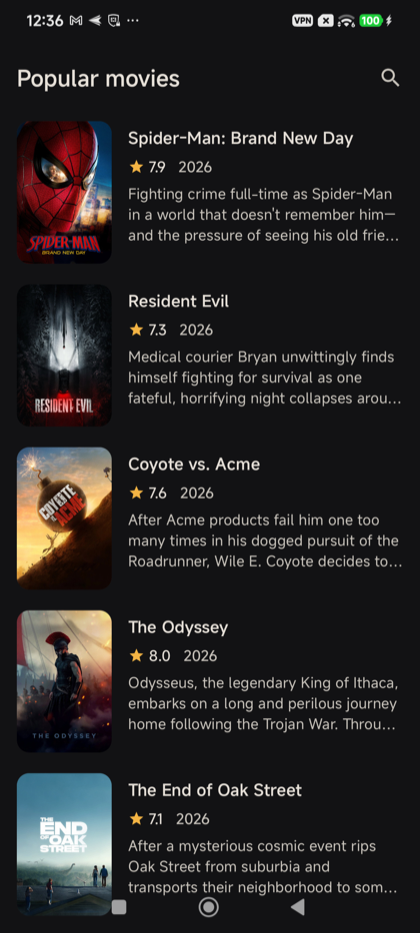
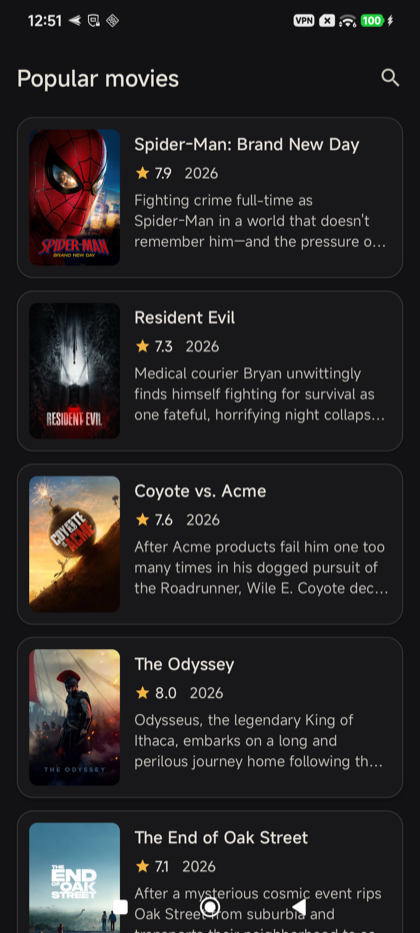
Show list items as elevated cards
- MediaListItem is now a Card with a soft shadow, a hairline
  outlineVariant border (visible on dark surfaces where shadows aren't)
  and a pressed elevation
- poster corner radius reduced so it stays concentric inside the card
- README screenshot and description updated

diff --git a/app/src/main/java/com/twocoders/movieapp/presentation/common/components/MediaListItem.kt b/app/src/main/java/com/twocoders/movieapp/presentation/common/components/MediaListItem.kt
@@ -1,12 +1,14 @@
 package com.twocoders.movieapp.presentation.common.components
 
-import androidx.compose.foundation.clickable
+import androidx.compose.foundation.BorderStroke
 import androidx.compose.foundation.layout.Arrangement
 import androidx.compose.foundation.layout.Column
 import androidx.compose.foundation.layout.Row
 import androidx.compose.foundation.layout.fillMaxWidth
 import androidx.compose.foundation.layout.padding
 import androidx.compose.foundation.layout.size
+import androidx.compose.material3.Card
+import androidx.compose.material3.CardDefaults
 import androidx.compose.material3.MaterialTheme
 import androidx.compose.material3.Surface
 import androidx.compose.material3.Text
@@ -22,44 +24,59 @@ import com.twocoders.movieapp.presentation.common.PreviewData
 import com.twocoders.movieapp.presentation.common.iconRes
 import com.twocoders.movieapp.presentation.ui.theme.MovieAppTheme
 
-/** One row in a media list: the poster, then the title, a meta line (rating, year) and a short overview. */
+/**
+ * One media card: the poster, then the title, a meta line (rating, year) and a short overview.
+ *
+ * The card gets a soft shadow plus a hairline border. Shadows barely show on dark surfaces,
+ * so the border is what separates the cards in the dark theme.
+ */
 @Composable
 fun MediaListItem(
     media: MediaSummary,
     onClick: () -> Unit,
     modifier: Modifier = Modifier,
 ) {
-    Row(
+    Card(
+        onClick = onClick,
         modifier = modifier
             .fillMaxWidth()
-            .clickable(onClick = onClick)
-            .padding(horizontal = 16.dp, vertical = 10.dp),
-        horizontalArrangement = Arrangement.spacedBy(16.dp),
+            .padding(horizontal = 16.dp, vertical = 6.dp),
+        shape = MaterialTheme.shapes.large,
+        colors = CardDefaults.cardColors(containerColor = MaterialTheme.colorScheme.surfaceContainerLow),
+        elevation = CardDefaults.cardElevation(defaultElevation = 3.dp, pressedElevation = 1.dp),
+        border = BorderStroke(1.dp, MaterialTheme.colorScheme.outlineVariant.copy(alpha = 0.6f)),
     ) {
-        PosterImage(
-            url = media.posterUrl,
-            fallbackIcon = media.type.iconRes(),
-            modifier = Modifier.size(width = 92.dp, height = 138.dp),
-        )
-        Column(
-            modifier = Modifier.padding(vertical = 4.dp),
-            verticalArrangement = Arrangement.spacedBy(6.dp),
+        Row(
+            modifier = Modifier.padding(12.dp),
+            horizontalArrangement = Arrangement.spacedBy(14.dp),
         ) {
-            Text(
-                text = media.title,
-                style = MaterialTheme.typography.titleMedium,
-                maxLines = 2,
-                overflow = TextOverflow.Ellipsis,
+            PosterImage(
+                url = media.posterUrl,
+                fallbackIcon = media.type.iconRes(),
+                // A smaller radius than the card's, so the corners stay concentric inside the 12dp padding.
+                shape = MaterialTheme.shapes.small,
+                modifier = Modifier.size(width = 88.dp, height = 132.dp),
             )
-            MetaLine(media)
-            if (media.overview.isNotBlank()) {
+            Column(
+                modifier = Modifier.padding(vertical = 2.dp),
+                verticalArrangement = Arrangement.spacedBy(6.dp),
+            ) {
                 Text(
-                    text = media.overview,
-                    style = MaterialTheme.typography.bodyMedium,
-                    color = MaterialTheme.colorScheme.onSurfaceVariant,
-                    maxLines = 3,
+                    text = media.title,
+                    style = MaterialTheme.typography.titleMedium,
+                    maxLines = 2,
                     overflow = TextOverflow.Ellipsis,
                 )
+                MetaLine(media)
+                if (media.overview.isNotBlank()) {
+                    Text(
+                        text = media.overview,
+                        style = MaterialTheme.typography.bodyMedium,
+                        color = MaterialTheme.colorScheme.onSurfaceVariant,
+                        maxLines = 3,
+                        overflow = TextOverflow.Ellipsis,
+                    )
+                }
             }
         }
     }

diff --git a/README.md b/README.md
@@ -158,7 +158,7 @@ TMDB sometimes sends `null` where a list is expected. `TmdbJson` sets `coerceInp
 Jetpack Compose only, with Material 3. There was no design to follow, so the goal was simple and calm: let the posters carry the colour, and keep the UI out of the way.
 
 - **Brand theme.** A warm amber accent on neutral surfaces, with full light and dark colour schemes. Dynamic colour is turned off on purpose, so every reviewer sees the same app. The window background matches the Compose background, so there's no colour flash at launch.
-- **Movies.** Each row shows a poster, title, ★ rating, year and a 3-line overview. The top bar hides while you scroll down and comes back on any scroll up.
+- **Movies.** Each title is a card with a poster, title, ★ rating, year and a 3-line overview. Cards have a soft shadow and a hairline border; the border is what separates them in the dark theme, where shadows barely show. The top bar hides while you scroll down and comes back on any scroll up.
 - **Search.**
   - The search field sits in the top bar and gets focus on first entry, with a clear button.
   - A segmented **Movies / TV series** selector chooses what to search.
